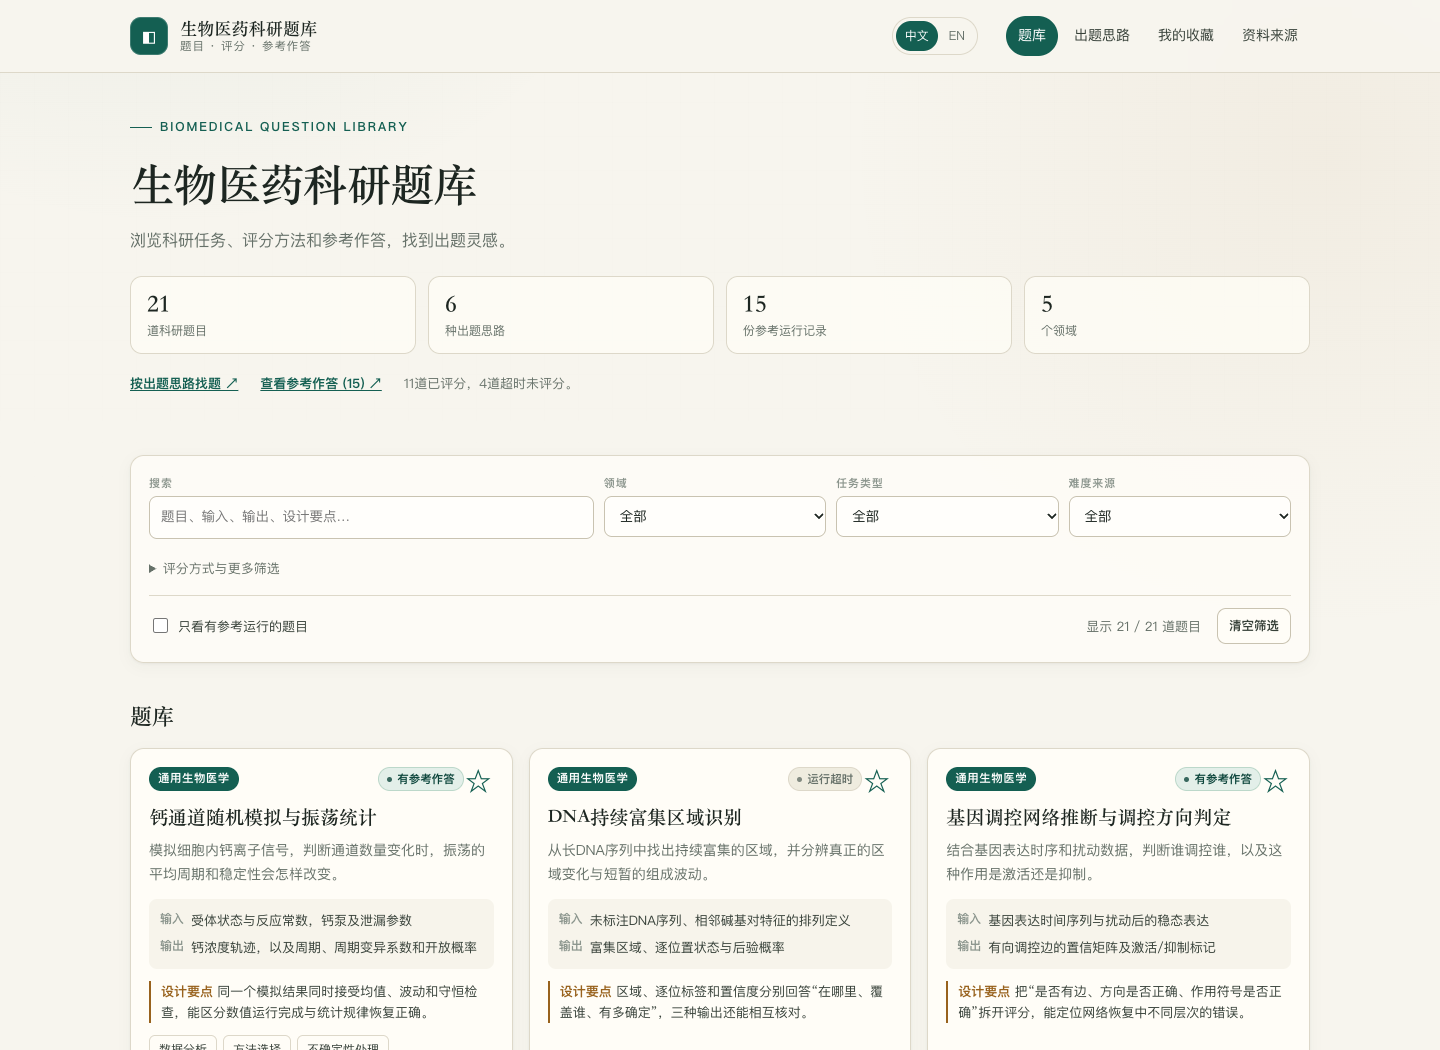
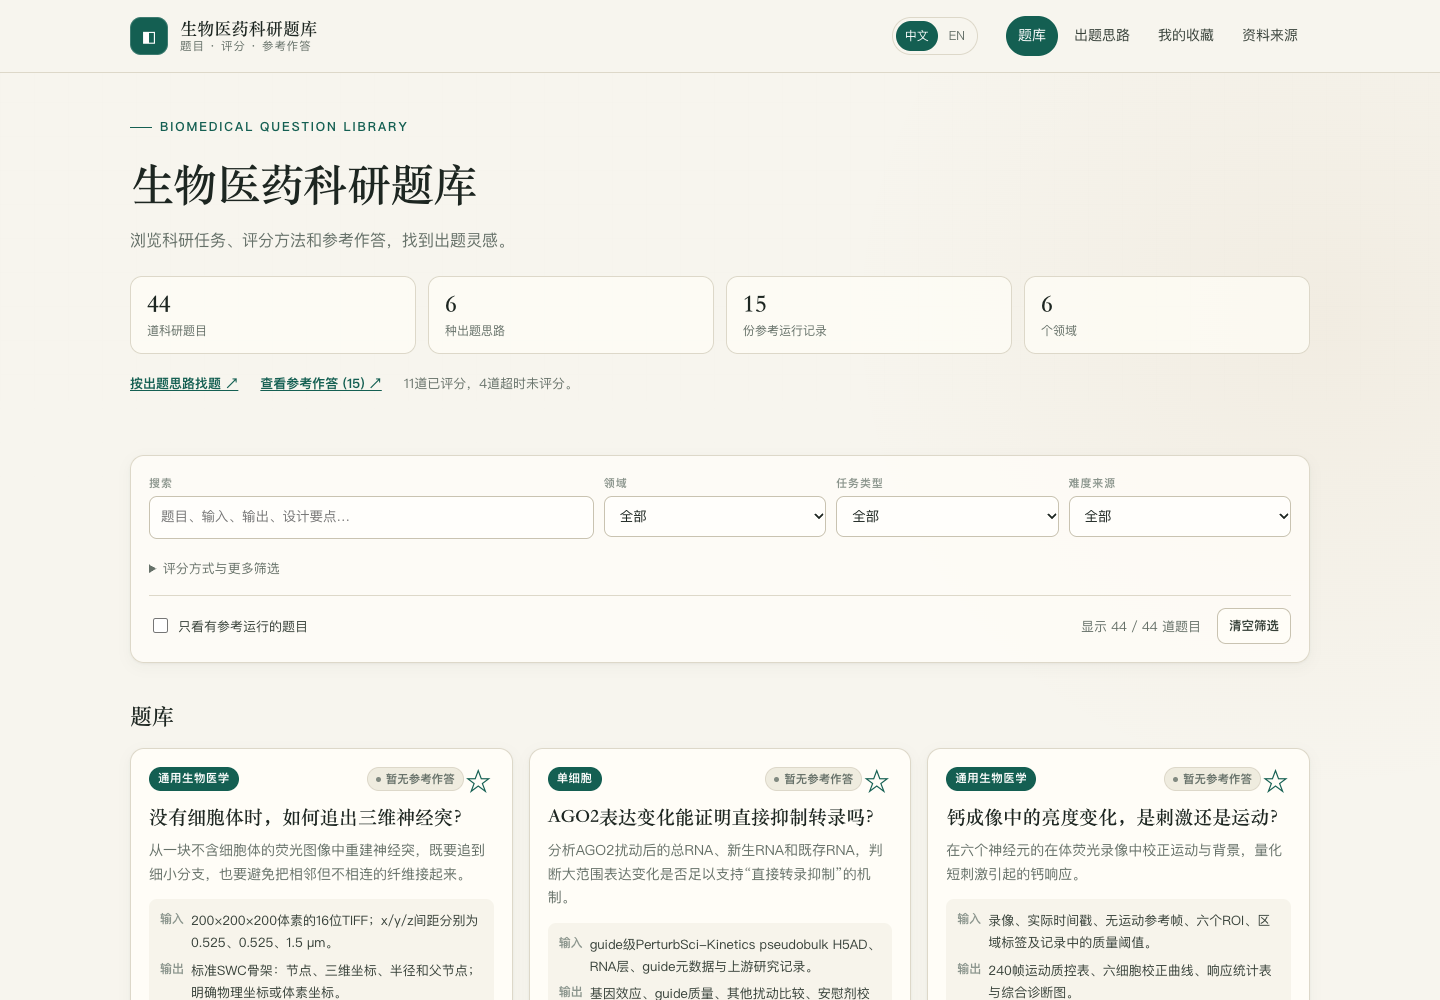
Introduce 23 newly curated biomedical research tasks

diff --git a/README.en.md b/README.en.md
@@ -21,6 +21,12 @@ Use this repository to recommend tasks, share ideas, and suggest corrections.
 
 The focus is individual task design and analysis. Reference agent runs illustrate concrete outcomes.
 
+## Newly added public tasks
+
+Added 23 tasks from [SciWorkBench](https://github.com/SKYEVAL-AIHub/SciWorkBench), [TxBench Antibody Development](https://github.com/latchbio/txBench-antibody-development), [TxBench Antibody Discovery](https://github.com/latchbio/txbench-antibody-discovery), [scBench](https://github.com/latchbio/scbench), and [SpatialBench](https://github.com/latchbio/spatialbench). Topics include neurite tracing, RNA mechanisms, imaging audits, structure elucidation, antibody decisions, and single-cell and spatial analysis.
+
+Each includes bilingual explanations, the original prompt, assessment details, and design takeaways. Start with [neurite tracing](https://biotask-lens.biotask-lens-app.workers.dev/#/task/swb-neurite-tracing?lang=en) or [donor-aware differential expression](https://biotask-lens.biotask-lens-app.workers.dev/#/task/scbench-pseudobulk-differential-expression?lang=en).
+
 ## Example tasks
 
 | Example | Research question | Design idea |
@@ -29,7 +35,7 @@ The focus is individual task design and analysis. Reference agent runs illustrat
 | Gene regulatory-network inference | Who regulates whom, and with which sign? | Evaluate edges, directions, signs, and topology separately. |
 | Active learning for biosensors | How can limited experiment rounds improve target response and selectivity? | Assess discovery and prediction of unmeasured variants. |
 
-The current collection contains **21 tasks** and **15 reference-run records**: 11 scored runs and 4 unscored timeouts. The reference configuration is Qwen3.8 Max + Codex CLI; each task describes its configuration and score source.
+The current collection contains **44 tasks** and **15 reference-run records**: 11 scored runs and 4 unscored timeouts. The reference configuration is Qwen3.8 Max + Codex CLI; each task describes its configuration and score source.
 
 <details>
 <summary>Example: connecting a scientific challenge to its evaluation</summary>
